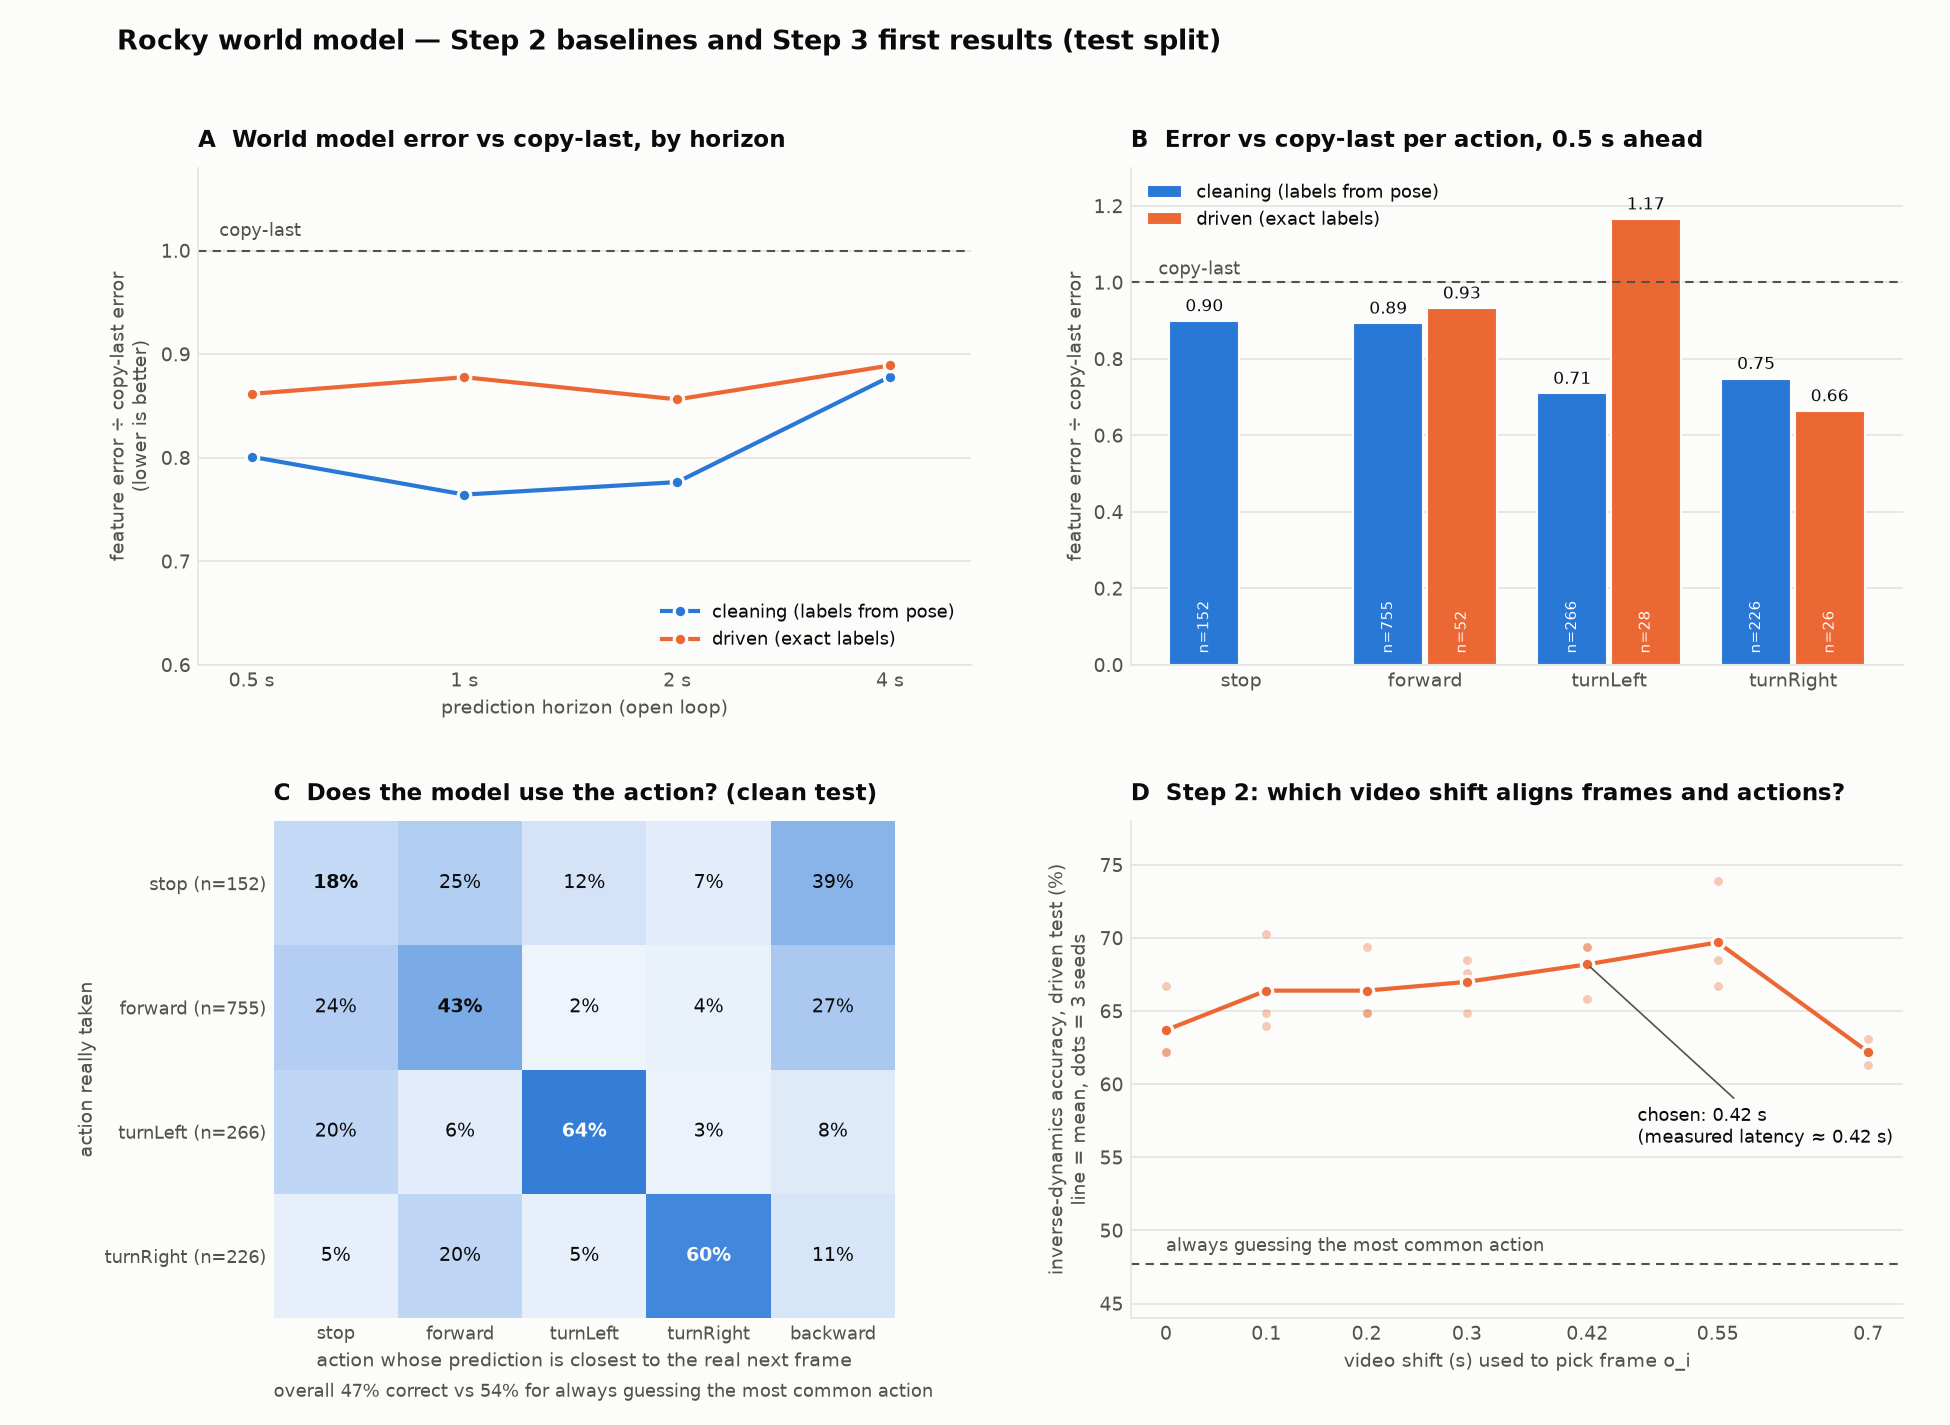
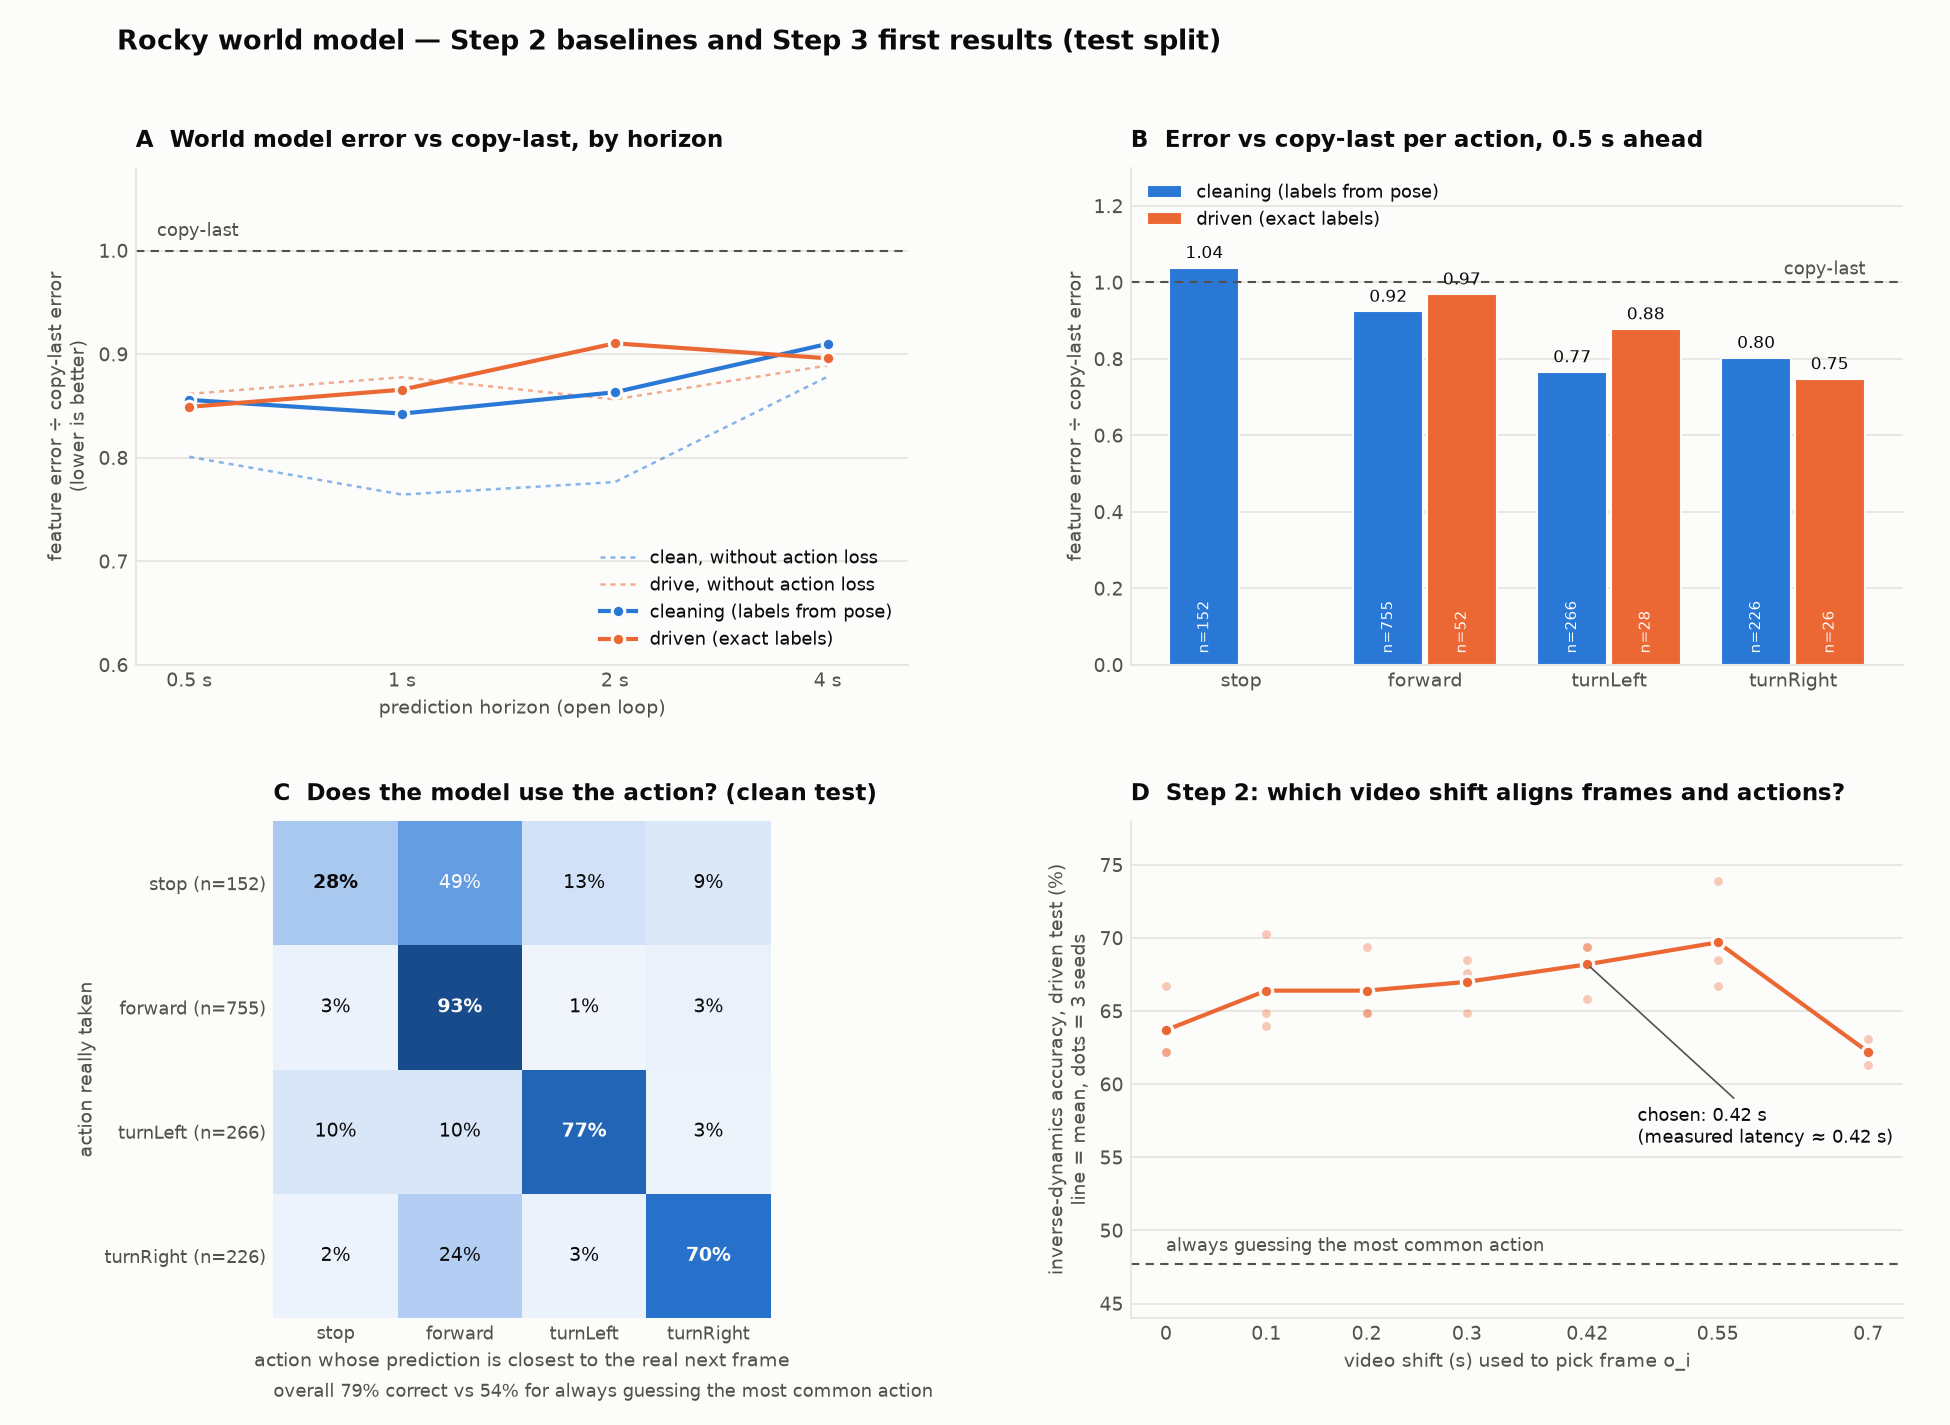
world-models: make the predictor use the action (action loss, no backward)
- Planner candidates are stop/forward/turnLeft/turnRight; backward (~1% of data)
  is no longer offered (the first model matched 39% of real stops to it)
- --action-loss (default 0.5): for half of each batch, predict under all 4
  actions and cross-entropy on which prediction is closest to the real next
  features. Picks the true action 79% clean / 82% drive (was 47% / 58%), still
  better than copy-last at every horizon; weight 2 was too strong
- Validation also reports action picking; plot shows the first version faintly
- PLAN.md: second-version results and open items

diff --git a/04-world-models/wm/predictor.py b/04-world-models/wm/predictor.py
@@ -20,11 +20,20 @@ Evaluation on the test split (same time-based split as Step 2), per mode:
   predictions and the true actions; error = MSE of the features vs the real frame,
   next to the copy-last error (z_{i+k} = z_i). ratio < 1 = better than copy-last.
 - per action at 1 step: where it helps (turns should improve most).
-- action sensitivity: for each test step, predict z_{i+1} under every action and
-  pick the one closest to the real z_{i+1}. If the model ignored actions this is a
+- action sensitivity: for each test step, predict z_{i+1} under every candidate
+  action (stop, forward, turnLeft, turnRight; backward is ~1% of the data, too rare
+  to learn or to plan with) and pick the one closest to the real z_{i+1}. If the model ignored actions this is a
   coin flip; if it uses them it recovers the action (compare with Step 2's
   inverse-dynamics classifier: ~75% clean, ~68% drive). Planning (Step 4) relies on
   exactly this: different actions must lead to different, correct futures.
+
+Action loss (--action-loss, weight lambda): plain next-step MSE lets the model get
+most of the way by continuing the motion it sees in the history, and largely ignore
+the action (first version: stop vs forward barely told apart). So for half of each
+batch the last step is also predicted under all 4 candidate actions, the distances
+to the real next features become scores (-MSE / tau) and a cross-entropy term asks
+the true action's prediction to be the closest. It trains exactly what the planner
+will use. The epoch is still picked on the validation 1-step error.
 """
 
 from __future__ import annotations
@@ -45,7 +54,7 @@ FEATURES = ROOT / "data" / "features" / ENCODER
 SAVE = ROOT / "data" / "models" / "predictor.pt"
 CONTEXT = 3  # steps of history (1.5 s)
 HORIZONS = (1, 2, 4, 8)
-CANDIDATES = ["stop", "forward", "turnLeft", "turnRight", "backward"]
+CANDIDATES = ["stop", "forward", "turnLeft", "turnRight"]  # actions the planner may choose
 POOL = 2  # average pool x pool patches: 10 x 18 -> 5 x 9 grid, ~7x faster to train
 
 
@@ -144,6 +153,19 @@ def rollout(model: Predictor, data: Latents, g: torch.Tensor, actions: torch.Ten
     return torch.stack(preds, 1)
 
 
+def action_scores(model: Predictor, z: torch.Tensor, a: torch.Tensor, cand: torch.Tensor,
+                  tau: float) -> torch.Tensor:
+    """Score each candidate as the last action: -MSE(prediction, real z) / tau, [B, C].
+
+    z [B, CONTEXT+1, P, D] (history + real next), a [B, CONTEXT] (last one is replaced).
+    """
+    b, c = len(a), len(cand)
+    aa = a.repeat_interleave(c, 0).clone()
+    aa[:, -1] = cand.repeat(b)
+    pred = model(z[:, :-1].repeat_interleave(c, 0), aa)[:, -1].reshape(b, c, *z.shape[2:])
+    return -((pred - z[:, -1, None]) ** 2).mean(dim=(-1, -2)) / tau
+
+
 def mse(x: torch.Tensor, y: torch.Tensor) -> torch.Tensor:
     return ((x - y) ** 2).mean(dim=(-1, -2))  # per sample
 
@@ -207,14 +229,15 @@ def evaluate(model: Predictor, data: Latents) -> dict:
     for gc in chunks(g, 128):
         target = data.z[(gc + 1).to(dev)].float()
         preds = torch.stack([rollout(model, data, gc, c.expand(len(gc))[:, None])[:, 0] for c in cand], 1)
-        d = ((preds - target[:, None]) ** 2).mean(dim=(-1, -2))  # [B, 5]
+        d = ((preds - target[:, None]) ** 2).mean(dim=(-1, -2))  # [B, C]
         picks.append(cand[d.argmin(1)].cpu())
         left, right = CANDIDATES.index("turnLeft"), CANDIDATES.index("turnRight")
         spread.append(mse(preds[:, left], preds[:, right]).cpu())
     pick = torch.cat(picks)
     gap = torch.cat(spread)
+    in_cand = torch.isin(act, cand.cpu())  # steps whose true action can be picked
     for mode in sorted(set(modes)):
-        mm = torch.from_numpy(modes == mode)
+        mm = torch.from_numpy(modes == mode) & in_cand
         y, p = act[mm], pick[mm]
         acc = (p == y).float().mean().item()
         majority = torch.bincount(y).max().item() / len(y)
@@ -235,7 +258,7 @@ def evaluate(model: Predictor, data: Latents) -> dict:
     return res
 
 
-def train(epochs: int, seed: int, pool: int) -> None:
+def train(epochs: int, seed: int, pool: int, action_loss: float, tau: float) -> None:
     torch.manual_seed(seed)
     dev = device()
     train_eps, test_eps = split(load_episodes())
@@ -247,7 +270,10 @@ def train(epochs: int, seed: int, pool: int) -> None:
     model = Predictor(n_patches=tr.z.shape[1]).to(dev)
     n_params = sum(p.numel() for p in model.parameters())
     print(f"train {len(g_train)} windows, val {len(g_val)}, {tr.z.shape[1]} tokens/step, "
-          f"{n_params / 1e6:.1f} M params, {dev}")
+          f"{n_params / 1e6:.1f} M params, {dev}, action loss {action_loss} (tau {tau})")
+    cand = torch.tensor([ACTIONS.index(c) for c in CANDIDATES], device=dev)
+    to_cand = torch.full((len(ACTIONS),), -1, device=dev)
+    to_cand[cand] = torch.arange(len(cand), device=dev)
     opt = torch.optim.AdamW(model.parameters(), lr=3e-4, weight_decay=0.05)
     batch = 64
     sched = torch.optim.lr_scheduler.OneCycleLR(opt, 6e-4, total_steps=epochs * (len(g_train) // batch + 1))
@@ -260,6 +286,10 @@ def train(epochs: int, seed: int, pool: int) -> None:
         for gc in chunks(perm, batch):
             z, a = windows(tr, gc)
             loss = F.mse_loss(model(z[:, :-1], a), z[:, 1:])
+            if action_loss > 0:
+                sub = torch.nonzero(to_cand[a[:, -1]] >= 0).squeeze(1)[: batch // 2]
+                scores = action_scores(model, z[sub], a[sub], cand, tau)
+                loss = loss + action_loss * F.cross_entropy(scores, to_cand[a[sub, -1]])
             opt.zero_grad()
             loss.backward()
             nn.utils.clip_grad_norm_(model.parameters(), 1.0)
@@ -268,18 +298,23 @@ def train(epochs: int, seed: int, pool: int) -> None:
             total += loss.item() * len(gc)
         model.eval()
         with torch.no_grad():
-            errs, copies = [], []
+            errs, copies, hits = [], [], []
             for gc in chunks(g_val):
                 z, a = windows(va, gc)
                 errs.append(mse(model(z[:, :-1], a)[:, -1], z[:, -1]))
                 copies.append(mse(z[:, -2], z[:, -1]))
+                ok = to_cand[a[:, -1]] >= 0
+                picked = action_scores(model, z[ok], a[ok], cand, tau).argmax(1)
+                hits.append((picked == to_cand[a[ok, -1]]).float())
             ratio = (torch.cat(errs).mean() / torch.cat(copies).mean()).item()
+            val_pick = torch.cat(hits).mean().item()
         if ratio < best:
             best, best_ep = ratio, ep + 1
             best_state = {k: v.detach().clone() for k, v in model.state_dict().items()}
         if ep == 0 or (ep + 1) % 5 == 0 or ep == epochs - 1:
             print(f"  epoch {ep + 1:3d}  train loss {total / len(g_train):.4f}  "
-                  f"val 1-step ratio vs copy-last {ratio:.3f}  ({time.time() - t0:.0f} s)")
+                  f"val 1-step ratio vs copy-last {ratio:.3f}, picks true action {val_pick:.1%}  "
+                  f"({time.time() - t0:.0f} s)")
     print(f"best epoch {best_ep} (val ratio {best:.3f}); using it for the test")
     model.load_state_dict(best_state)
     SAVE.parent.mkdir(parents=True, exist_ok=True)
@@ -293,6 +328,9 @@ def main() -> None:
     parser.add_argument("--epochs", type=int, default=30)
     parser.add_argument("--seed", type=int, default=0)
     parser.add_argument("--pool", type=int, default=POOL, help="1 = full 10x18 grid (slow)")
+    parser.add_argument("--action-loss", type=float, default=0.5,
+                        help="weight of the action loss (0 = plain MSE; 2 hurt prediction badly)")
+    parser.add_argument("--tau", type=float, default=0.05, help="action-loss temperature")
     parser.add_argument("--eval", action="store_true", help="only evaluate the saved model")
     args = parser.parse_args()
     if args.eval:
@@ -303,7 +341,7 @@ def main() -> None:
         model.load_state_dict(saved["state"])
         evaluate(model, te)
     else:
-        train(args.epochs, args.seed, args.pool)
+        train(args.epochs, args.seed, args.pool, args.action_loss, args.tau)
 
 
 if __name__ == "__main__":

diff --git a/04-world-models/wm/plot_results.py b/04-world-models/wm/plot_results.py
@@ -30,6 +30,7 @@ from wm.predictor import CANDIDATES, SAVE, Latents, Predictor, device, evaluate 
 
 OUT = ROOT / "figures" / "step3_results.png"
 RESULTS = ROOT / "data" / "results" / "step3.json"
+BEFORE = ROOT / "data" / "results" / "step3_v1.json"  # first version, without the action loss
 
 SURFACE, INK, INK2, GRID = "#fcfcfb", "#0b0b0b", "#52514e", "#e4e3df"
 MODE_COLOUR = {"clean": "#2a78d6", "drive": "#eb6834"}
@@ -62,8 +63,13 @@ def copy_last_line(ax: plt.Axes, x: float) -> None:
     ax.text(x, 1.01, "copy-last", color=INK2, fontsize=8.5, va="bottom")
 
 
-def panel_horizons(ax: plt.Axes, res: dict) -> None:
+def panel_horizons(ax: plt.Axes, res: dict, before: dict | None) -> None:
     style(ax, "A  World model error vs copy-last, by horizon")
+    for mode, rows in (before or {}).get("rollout", {}).items():
+        ks = sorted(rows, key=int)
+        ax.plot([int(k) / 2 for k in ks], [rows[k]["model"] / rows[k]["copy"] for k in ks],
+                color=MODE_COLOUR[mode], linewidth=1.2, linestyle=(0, (2, 2)), alpha=0.55,
+                label=f"{mode}, without action loss")
     for mode, rows in res["rollout"].items():
         ks = sorted(rows, key=int)
         x = [int(k) / 2 for k in ks]
@@ -97,7 +103,7 @@ def panel_actions(ax: plt.Axes, res: dict) -> None:
                     fontsize=8, color=INK)
             ax.text(x, 0.03, f"n={row['n']}", ha="center", va="bottom", fontsize=7, color=SURFACE,
                     rotation=90)
-    copy_last_line(ax, -0.45)
+    copy_last_line(ax, len(names) - 1.05)
     ax.set_xticks(range(len(names)), names)
     ax.set_xlim(-0.6, len(names) - 0.4)
     ax.set_ylim(0, 1.3)
@@ -165,7 +171,8 @@ def main() -> None:
     RESULTS.write_text(json.dumps(res, indent=1))
 
     fig, axes = plt.subplots(2, 2, figsize=(13, 9.5), facecolor=SURFACE)
-    panel_horizons(axes[0, 0], res)
+    before = json.loads(BEFORE.read_text()) if BEFORE.exists() else None
+    panel_horizons(axes[0, 0], res, before)
     panel_actions(axes[0, 1], res)
     panel_confusion(axes[1, 0], res)
     panel_shift(axes[1, 1])

diff --git a/04-world-models/PLAN.md b/04-world-models/PLAN.md
@@ -40,7 +40,11 @@ Reality check that shapes the plan: a weekend of vacuum driving is a few hours o
 - First version done (`wm/encode.py`, `wm/predictor.py`): DINOv2 ViT-S/14 patches cached (2.6 ms/frame), 2x2-pooled to a 5x9 grid, 3-step context, 3.4 M-param transformer, epoch picked on a validation slice.
   - Test error vs copy-last at 0.5 / 1 / 2 / 4 s: clean 0.80 / 0.76 / 0.78 / 0.88, drive 0.86 / 0.88 / 0.86 / 0.89. Turns improve most (~0.72), forward/stop least (~0.9).
   - Action sensitivity: turnLeft vs turnRight predictions now differ, but stop vs forward barely (clean pick-the-true-action 47%, stop recall 18%).
-- [ ] NEXT — make the model rely on the action: drop history context during training, stronger action conditioning, compare the full 10x18 grid (`--pool 1`).
+- Second version (default now): backward dropped from the actions the planner may pick (~1% of data; the first model matched 39% of real stops to it) + an action loss (weight 0.5): for half of each batch, predict under all 4 actions and cross-entropy on which prediction is closest to reality.
+  - Picks the true action: clean 79% (was 47%), drive 82% (was 58%) — above the Step 2 pixel classifier (75% / 68%). Stop is still weak (28%; inferred clean stops are noisy).
+  - Costs some prediction error, still better than copy-last everywhere: clean 0.86 / 0.84 / 0.86 / 0.91, drive 0.85 / 0.87 / 0.91 / 0.90. Weight 2 was too strong (worse than copy-last beyond 1 s).
+  - Figure: `uv run python -m wm.plot_results` -> `figures/step3_results.png`.
+- [ ] Still open: val error was still falling at epoch 25 (try more epochs), the full 10x18 grid (`--pool 1`), better stop labels.
 
 ### Step 4: Plan with it
 - Goal-reaching in latent space: given current frame and a goal frame (e.g. "facing the couch"), use CEM / random shooting over action sequences, roll out with the world model, pick the sequence minimizing distance to the goal embedding.
